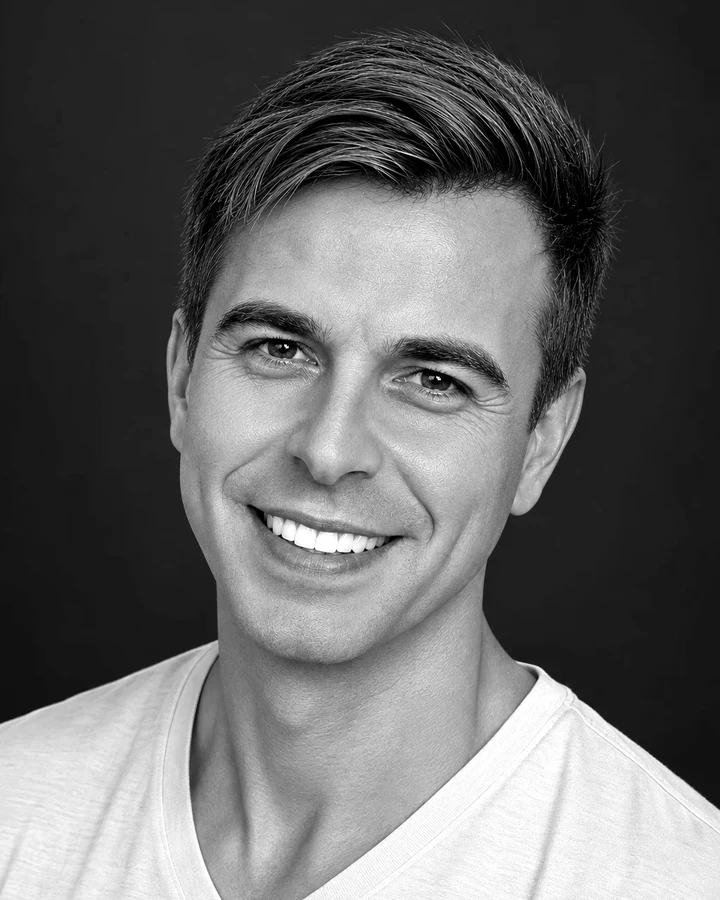
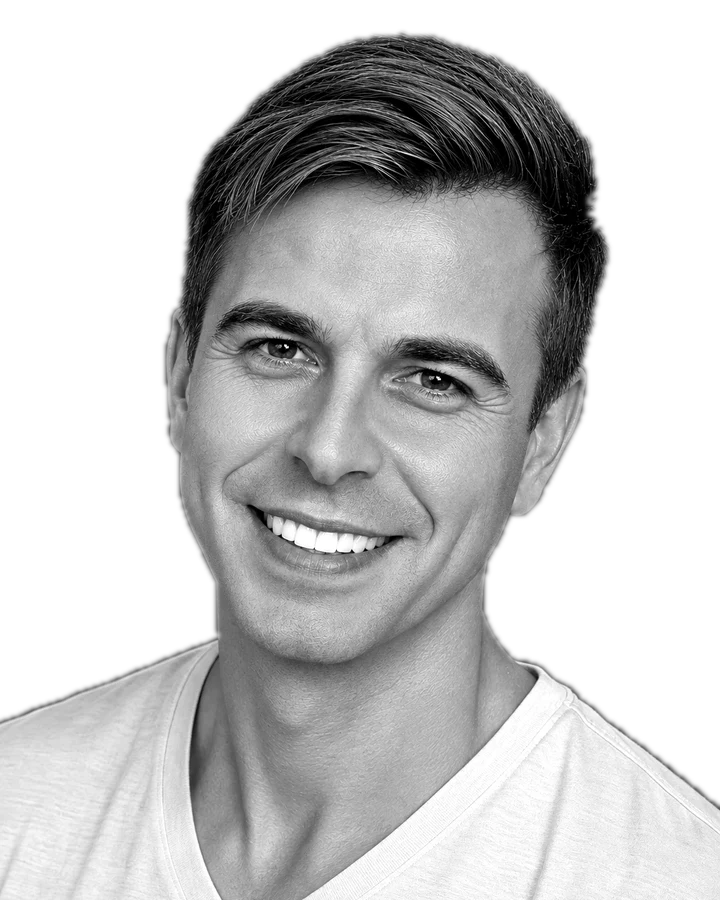
About: portrait backdrop cut to transparent (no stray dots around the head); skills as separate chips with gaps

diff --git a/index.html b/index.html
@@ -246,8 +246,8 @@ section{padding-block:clamp(80px,10vw,160px)}
 .tl .c small{display:block;font-weight:400;color:var(--ink-3);font-size:13px}
 .tl .d{color:var(--ink-2);font-size:15px}
 .tl.now .y{color:var(--ink)}
-.skills{display:flex;flex-wrap:wrap;gap:0;margin-top:28px;border:1px solid var(--line)}
-.skills span{font-family:var(--mono);font-size:11px;letter-spacing:.1em;text-transform:uppercase;padding:10px 14px;border-right:1px solid var(--line);border-bottom:1px solid var(--line);color:var(--ink-2)}
+.skills{display:flex;flex-wrap:wrap;gap:8px;margin-top:28px} /* separate chips — the shared frame left an empty stub on the last row */
+.skills span{font-family:var(--mono);font-size:11px;letter-spacing:.1em;text-transform:uppercase;padding:10px 14px;border:1px solid var(--line-2);border-radius:999px;color:var(--ink-2)}
 @media(max-width:900px){.about{grid-template-columns:1fr}.tl{grid-template-columns:90px 1fr;grid-template-rows:auto auto}.tl .d{grid-column:2}}
 @media(max-width:520px){.stats{grid-template-columns:1fr 1fr 1fr}.stat{padding:14px 10px}}
 
@@ -846,6 +846,7 @@ function aboutStats(){
     const o=document.createElement('canvas'); o.width=cols; o.height=rows; const ox=o.getContext('2d'); ox.drawImage(img,0,0,cols,rows);
     const d=ox.getImageData(0,0,cols,rows).data; dots=[];
     for(let j=0;j<rows;j++)for(let i=0;i<cols;i++){ const l=d[(j*cols+i)*4]/255; const hx=i*S+S/2, hy=j*S+S/2;
+      if(d[(j*cols+i)*4+3]<128) continue; /* transparent backdrop: no dot */
       dots.push({hx,hy,l,x:rm?hx:Math.random()*W,y:rm?hy:Math.random()*H,vx:0,vy:0,s:S}); }
     wrap.classList.add('ready'); start=performance.now();
   }

diff --git a/src/index-src.html b/src/index-src.html
@@ -233,8 +233,8 @@ section{padding-block:clamp(80px,10vw,160px)}
 .tl .c small{display:block;font-weight:400;color:var(--ink-3);font-size:13px}
 .tl .d{color:var(--ink-2);font-size:15px}
 .tl.now .y{color:var(--ink)}
-.skills{display:flex;flex-wrap:wrap;gap:0;margin-top:28px;border:1px solid var(--line)}
-.skills span{font-family:var(--mono);font-size:11px;letter-spacing:.1em;text-transform:uppercase;padding:10px 14px;border-right:1px solid var(--line);border-bottom:1px solid var(--line);color:var(--ink-2)}
+.skills{display:flex;flex-wrap:wrap;gap:8px;margin-top:28px} /* separate chips — the shared frame left an empty stub on the last row */
+.skills span{font-family:var(--mono);font-size:11px;letter-spacing:.1em;text-transform:uppercase;padding:10px 14px;border:1px solid var(--line-2);border-radius:999px;color:var(--ink-2)}
 @media(max-width:900px){.about{grid-template-columns:1fr}.tl{grid-template-columns:90px 1fr;grid-template-rows:auto auto}.tl .d{grid-column:2}}
 @media(max-width:520px){.stats{grid-template-columns:1fr 1fr 1fr}.stat{padding:14px 10px}}
 
@@ -831,6 +831,7 @@ function aboutStats(){
     const o=document.createElement('canvas'); o.width=cols; o.height=rows; const ox=o.getContext('2d'); ox.drawImage(img,0,0,cols,rows);
     const d=ox.getImageData(0,0,cols,rows).data; dots=[];
     for(let j=0;j<rows;j++)for(let i=0;i<cols;i++){ const l=d[(j*cols+i)*4]/255; const hx=i*S+S/2, hy=j*S+S/2;
+      if(d[(j*cols+i)*4+3]<128) continue; /* transparent backdrop: no dot */
       dots.push({hx,hy,l,x:rm?hx:Math.random()*W,y:rm?hy:Math.random()*H,vx:0,vy:0,s:S}); }
     wrap.classList.add('ready'); start=performance.now();
   }

diff --git a/history/2026-10-10-evening-polish.md b/history/2026-10-10-evening-polish.md
@@ -46,7 +46,7 @@
 - 11.10: убран разделитель над блоком «Есть задача? Напишите». Метка iter-64-before-contact-line.
 - 11.10: зазор «Обо мне» → контакты сокращён в 1,5 раза: 321 → 208 px (телефон 161 → 104), те же отступы, что архив → «Обо мне». Метка iter-66-before-contact-gap.
 - 11.10: заголовок архива «Архив 2012–2022» / «Archive 2012–2022». Метка iter-68-before-archive-years.
-- 11.10: «Обо мне» в кинетическом стиле — портрет как живой растр из точек (canvas, новое фото `assets/about/portrait.webp`): точки собираются в лицо при появлении и разбегаются от курсора; крупный текст подсвечивается по словам при прокрутке; цифры 14/4/×4 досчитываются. Метка iter-70-before-about. Растр мельче (~96 точек по ширине), отрисовка одним путём и остановка, когда точки успокоились (было 4 fps) — iter-72.
+- 11.10: «Обо мне» в кинетическом стиле — портрет как живой растр из точек (canvas, новое фото `assets/about/portrait.webp`): точки собираются в лицо при появлении и разбегаются от курсора; крупный текст подсвечивается по словам при прокрутке; цифры 14/4/×4 досчитываются. Метка iter-70-before-about. Растр мельче (~96 точек по ширине), отрисовка одним путём и остановка, когда точки успокоились (было 4 fps) — iter-72. Фон фото вырезан в прозрачность (бордовый, связанный с краями), точек вокруг головы нет; навыки — отдельные чипы с промежутками вместо общей рамки — iter-74.
 
 **Правила, принятые в сессии**
 - Общаться только по-русски.
@@ -1257,5 +1257,17 @@ STATUS.md обновил: записал всё, что сделано за ве
 **Claude** · 2026-10-11
 
 Сделал сетку мельче: около 96 точек по ширине вместо 62. Заодно ускорил отрисовку (все точки одним проходом, перерисовка останавливается, когда точки успокоились) — с ~15 тысячами точек было 4 кадра в секунду, теперь плавно.
+
+---
+
+**Андрей** · 2026-10-11
+
+а можешь убрать мелкие точки-артефакты вокруг головы? / также вот этот огрызок рамки не нравится / я бы дал отступы между этими блоками (навыки)
+
+---
+
+**Claude** · 2026-10-11
+
+Точки давал бордовый фон фото (в ч/б — тёмно-серый). Отделил его по цвету — только бордовую область, связанную с краями кадра, чтобы не задеть губы и волосы, — и сделал прозрачным: на прозрачном точки не рисуются, вокруг головы чисто в обеих темах. Навыки теперь отдельные чипы со скруглением и промежутками 8 px — общей рамки, а с ней и «огрызка», больше нет.
 
 ---
